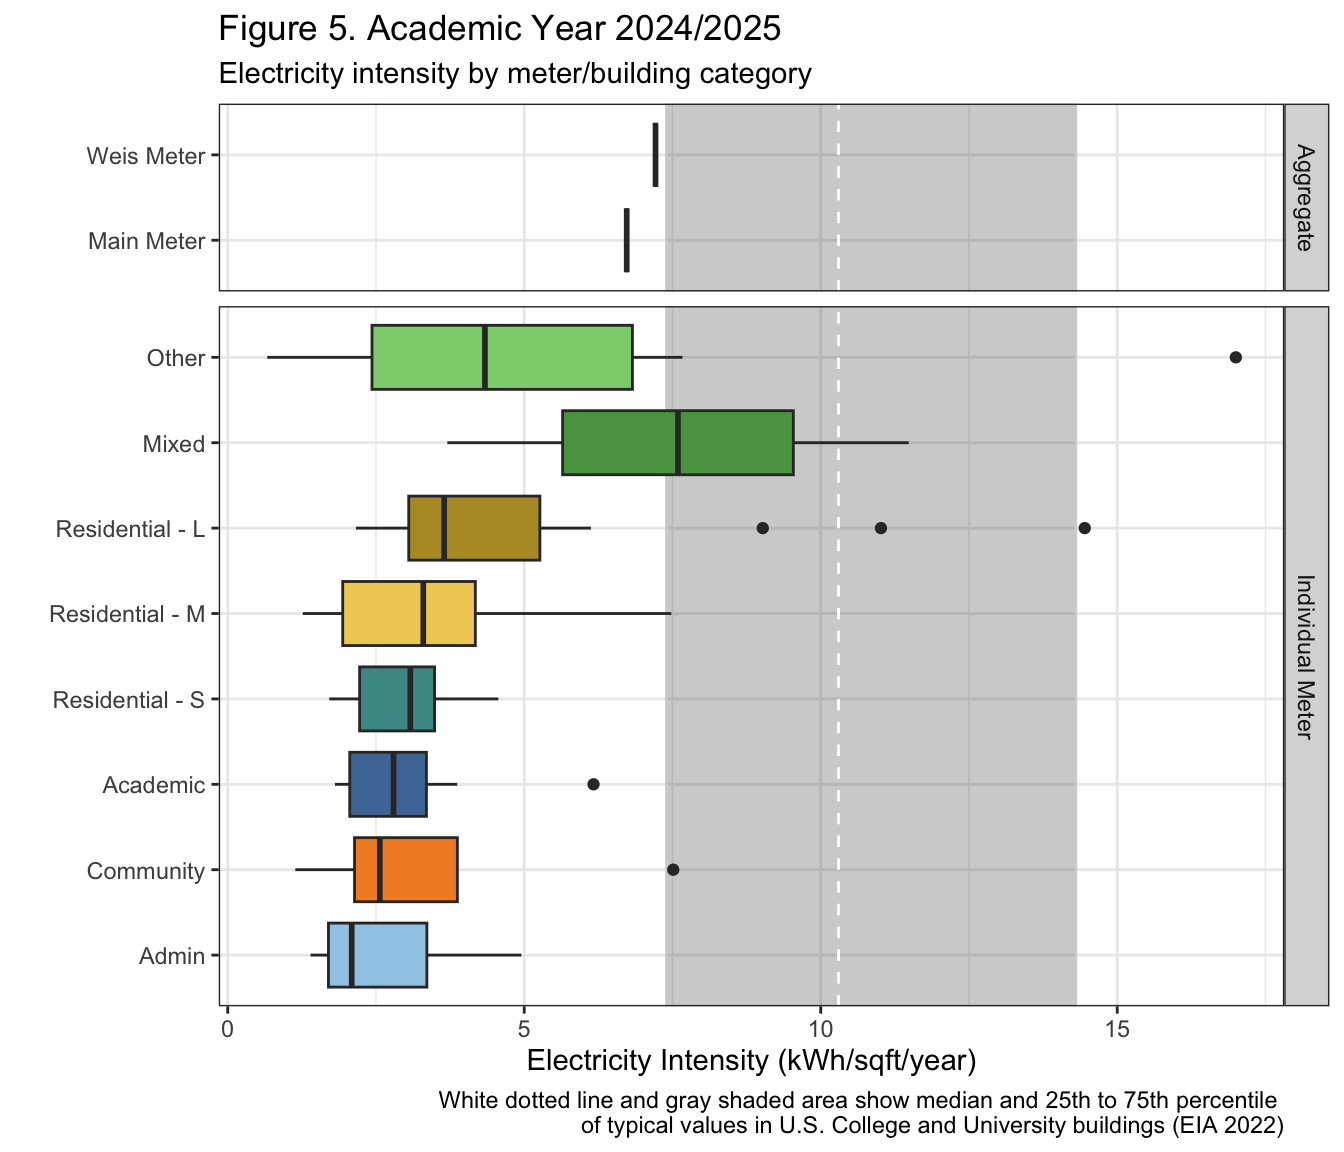
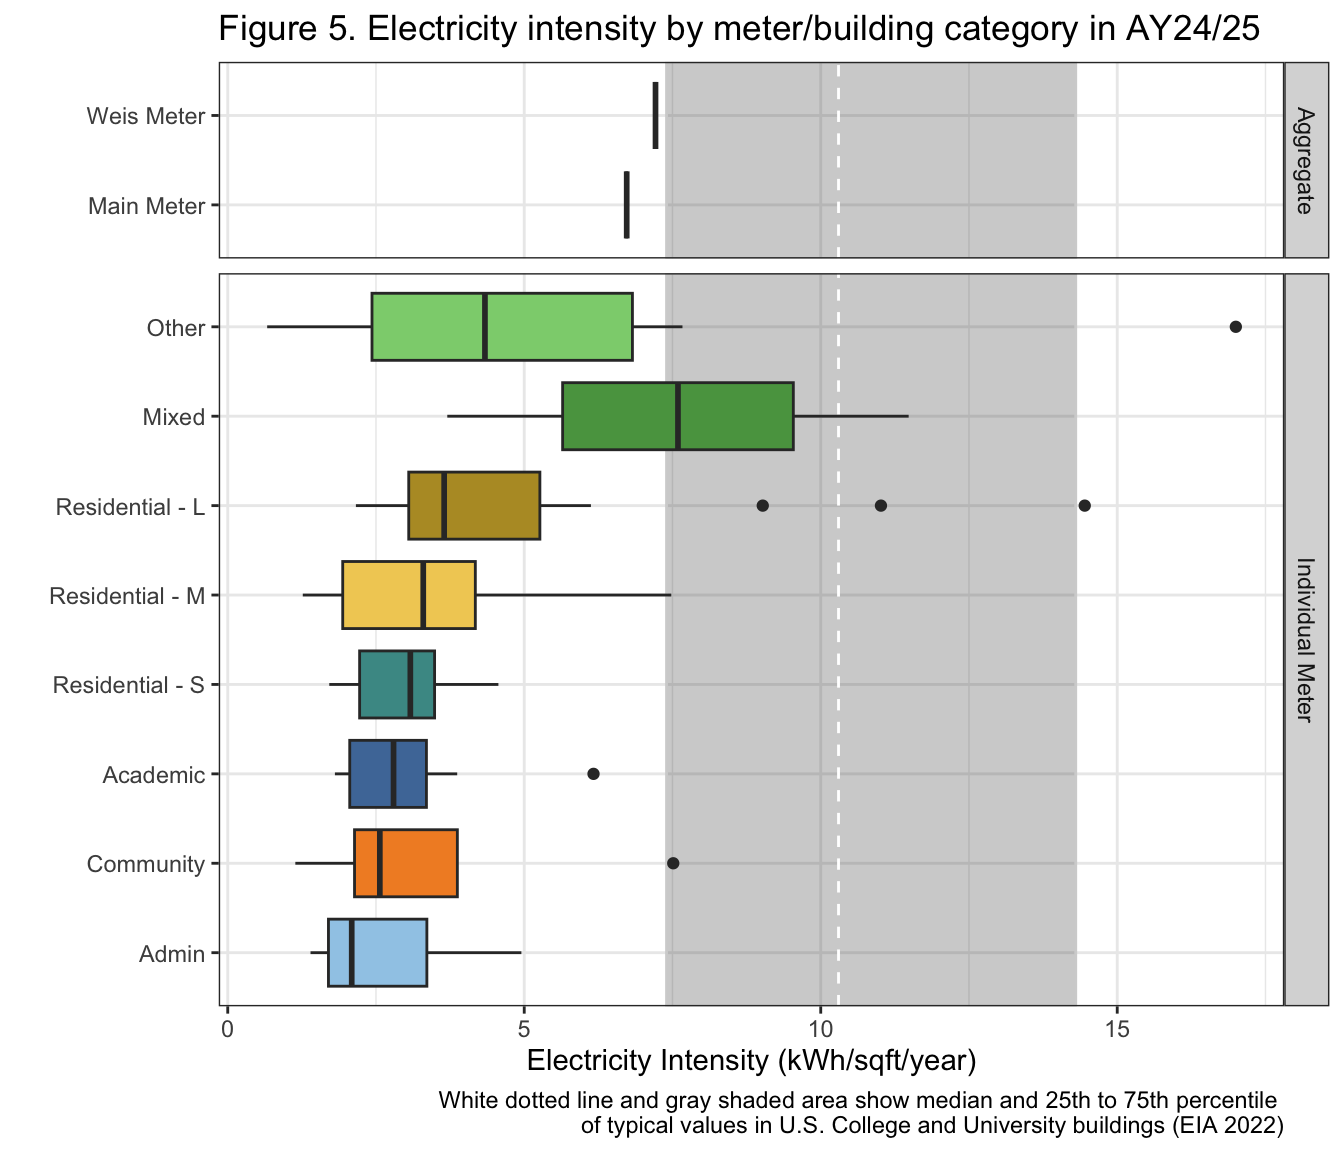
started to flesh out text for campus summary

diff --git a/docs/campus_summary.html b/docs/campus_summary.html
@@ -11,7 +11,7 @@
 
 <meta name="author" content="Maggie Douglas" />
 
-<meta name="date" content="2026-03-17" />
+<meta name="date" content="2026-03-18" />
 
 <title>Campus building summary</title>
 
@@ -404,7 +404,7 @@ div.tocify {
 
 <h1 class="title toc-ignore">Campus building summary</h1>
 <h4 class="author">Maggie Douglas</h4>
-<h4 class="date">03/17/26</h4>
+<h4 class="date">03/18/26</h4>
 
 </div>
 
@@ -504,8 +504,50 @@ joined_cat &lt;- joined_full %&gt;%
             kwh_sqft_75 = quantile(kwh_sqft, .75, na.rm = T)) %&gt;%
   arrange(-kwh)</code></pre>
 </div>
+<div id="background" class="section level2">
+<h2>Background</h2>
+<p>This analysis examines electricity use on Dickinson’s campus as a
+whole in fiscal year 2025, to provide context for the category-specific
+analyses that follow. Buildings on Dickinson’s campus vary in how they
+are metered for electricity usage. Some buildings (and even individual
+apartments within buildings) have their own electricity meters, while
+others share a combined meter. There are two combined (or aggregate)
+meters - the “main meter” (associated with buildings in the central part
+of campus) and “Weis meter” (associated with buildings in a block around
+Weis Arts Complex). Some buildings on the main meter additionally have a
+“submeter” to track their individual electricity use.</p>
+<p>The electricity data analyzed here were derived from a combination of
+daily electricity use reported by the college electricity provider
+(PP&amp;L), daily electricity use recorded on submeters, provided by the
+Center for Sustainability Education. Electricity use information was
+joined with information on building characteristics shared by facilities
+management. Once the data were joined, we summarized electricity use by
+building and calculated electricity use indicators including estimated
+financial cost, associated greenhouse gas emissions in metric tons of
+CO2-equivalents, and electricity use normalized by square footage and
+student occupancy (for residence halls only). Financial cost is a rough
+estimate based on per kWh supply and delivery charges in June 2025 for
+the main meter, a value that will underestimate cost for smaller
+buildings due to variable costs.</p>
+</div>
 <div id="electricity-use-summary" class="section level2">
 <h2>Electricity use summary</h2>
+<p>The analysis includes 134 distinct buildings, accounting for almost 2
+million square feet of building space (Table 1). The majority (59%) of
+square footage was accounted for by buildings connected to the main
+meter. We identified 44 distinct buildings on the main meter, a value
+that differs slightly from internal campus estimate of 37 buildings due
+to differences in how buildings are delineated in the two datasets
+(e.g. Rector Science Center and Tome are listed together in the
+electricity data but separately in the building data). Our final dataset
+also includes 81 individually metered buildings that together account
+for 36% of campus square footage.</p>
+<p>We estimate that Dickinson used roughly 17 million kWh of electricity
+in fiscal year 2025, corresponding to a cost of roughly $1.4 million and
+over 5000 MT CO2-equivalents (Table 1). Most (68%) of this use was
+associated with buildings on the main meter. Another 6% was associated
+for nine buildings on the Weis meter, and the remaining 26% was
+associated with individually metered buildings.</p>
 <pre class="r"><code>joined_pretty_tot &lt;- joined_tot %&gt;%
   mutate(kwh = round(kwh_corr, digits = 0),
          dollars = paste(&quot;$&quot;,round(dollars, digits = 0)),
@@ -549,6 +591,14 @@ joined_pretty_cat &lt;- joined_cat %&gt;%
 </div>
 <div id="electricity-use-over-the-year" class="section level2">
 <h2>Electricity use over the year</h2>
+<p>Electricity use peaked in July and was lowest in May and November
+(Figure 1). At all times of year, buildings on the main meter accounted
+for most of the electricity use, and the main meter buildings appeared
+to drive the seasonal pattern (Figure 2). Of the individually metered
+buildings, large residence halls accounted for the largest share of
+electricity use and peaked in winter (Figure 3). Interestingly,
+electricity production through the solar field peaked in July and was
+lowest in December and January (Figure 1).</p>
 <pre class="r"><code>daily_graph &lt;- daily_full %&gt;%
   mutate(date = as_date(date),
          month = month(date, label = TRUE),
@@ -567,8 +617,7 @@ ggplot(filter(daily_graph, meter != &quot;Submeter&quot;),
   #scale_fill_brewer(type = &quot;qual&quot;, palette = &quot;Paired&quot;) +
   theme_bw() +
   labs(x = &quot;&quot;, y = &quot;Electricity use (million kWh)&quot;, fill = &quot;&quot;,
-       title = &quot;Figure 1. Fiscal Year 2025&quot;,
-       subtitle = &quot;Monthly patterns in electricity use&quot;)</code></pre>
+       title = &quot;Figure 1. Monthly patterns in electricity use in FY25&quot;)</code></pre>
 <p><img src="figure/campus_summary.Rmd/stacked%20bar-1.png" alt="" width="672" style="display: block; margin: auto;" /></p>
 <p>
 <button type="button" class="btn btn-default btn-xs btn-workflowr btn-workflowr-fig" data-toggle="collapse" data-target="#fig-no-spaces-stacked-bar-1">
@@ -592,6 +641,17 @@ Date
 </tr>
 </thead>
 <tbody>
+<tr>
+<td>
+<a href="https://github.com/maggiedouglas/dickinson_power/blob/bd65297524933e7448377a79a4cd9915ca5c1aa4/docs/figure/campus_summary.Rmd/stacked bar-1.png" target="_blank">bd65297</a>
+</td>
+<td>
+maggiedouglas
+</td>
+<td>
+2026-03-17
+</td>
+</tr>
 <tr>
 <td>
 <a href="https://github.com/maggiedouglas/dickinson_power/blob/012f9a199bf668fdb338eabe99a4c6d63ade705d/docs/figure/campus_summary.Rmd/stacked bar-1.png" target="_blank">012f9a1</a>
@@ -638,10 +698,46 @@ maggiedouglas
   theme(legend.position = &quot;none&quot;) +
   theme(axis.text.x = element_text(angle = 90, vjust = 0.5, hjust = 1)) +
   labs(x = &quot;&quot;, y = &quot;Electricity use (1000 kWh)&quot;, fill = &quot;&quot;,
-       title = &quot;Figure 2. Fiscal Year 2025&quot;,
-       subtitle = &quot;Monthly patterns in electricity use for aggregate meters&quot;,
+       title = &quot;Figure 2. Monthly patterns in electricity use for aggregate meters in FY2025&quot;,
        )</code></pre>
 <p><img src="figure/campus_summary.Rmd/faceted_agg-1.png" alt="" width="672" style="display: block; margin: auto;" /></p>
+<p>
+<button type="button" class="btn btn-default btn-xs btn-workflowr btn-workflowr-fig" data-toggle="collapse" data-target="#fig-faceted_agg-1">
+Past versions of faceted_agg-1.png
+</button>
+</p>
+<div id="fig-faceted_agg-1" class="collapse">
+<div class="table-responsive">
+<table class="table table-condensed table-hover">
+<thead>
+<tr>
+<th>
+Version
+</th>
+<th>
+Author
+</th>
+<th>
+Date
+</th>
+</tr>
+</thead>
+<tbody>
+<tr>
+<td>
+<a href="https://github.com/maggiedouglas/dickinson_power/blob/bd65297524933e7448377a79a4cd9915ca5c1aa4/docs/figure/campus_summary.Rmd/faceted_agg-1.png" target="_blank">bd65297</a>
+</td>
+<td>
+maggiedouglas
+</td>
+<td>
+2026-03-17
+</td>
+</tr>
+</tbody>
+</table>
+</div>
+</div>
 <pre class="r"><code>ggplot(filter(daily_graph, meter == &quot;Individual&quot; &amp; type != &quot;Solar&quot;),
        aes(x = month, y = kwh/10^3, fill = type_brief)) +
   geom_col(position = &quot;stack&quot;) +
@@ -651,8 +747,7 @@ maggiedouglas
   theme(legend.position = &quot;none&quot;) +
   theme(axis.text.x = element_text(angle = 90, vjust = 0.5, hjust = 1)) +
   labs(x = &quot;&quot;, y = &quot;Electricity use (1000 kWh)&quot;, fill = &quot;&quot;,
-       title = &quot;Figure 3. Fiscal Year 2025&quot;,
-       subtitle = &quot;Monthly patterns in electricity use by category for buildings with individual meters&quot;,
+       title = &quot;Figure 3. Monthly patterns in electricity use by category in FY2025&quot;,
        caption = &quot;Note: Data only includes buildings with individual meters. Most electricity use is accounted for on the Main Meter.&quot;)</code></pre>
 <p><img src="figure/campus_summary.Rmd/faceted-1.png" alt="" width="768" style="display: block; margin: auto;" /></p>
 <p>
@@ -679,6 +774,17 @@ Date
 <tbody>
 <tr>
 <td>
+<a href="https://github.com/maggiedouglas/dickinson_power/blob/bd65297524933e7448377a79a4cd9915ca5c1aa4/docs/figure/campus_summary.Rmd/faceted-1.png" target="_blank">bd65297</a>
+</td>
+<td>
+maggiedouglas
+</td>
+<td>
+2026-03-17
+</td>
+</tr>
+<tr>
+<td>
 <a href="https://github.com/maggiedouglas/dickinson_power/blob/012f9a199bf668fdb338eabe99a4c6d63ade705d/docs/figure/campus_summary.Rmd/faceted-1.png" target="_blank">012f9a1</a>
 </td>
 <td>
@@ -695,6 +801,25 @@ maggiedouglas
 </div>
 <div id="electricity-intensity" class="section level2">
 <h2>Electricity intensity</h2>
+<p>Looking at the entire fiscal year, electricity intensity (use per
+square foot of space) varied across building categories for individually
+metered buildings (Table 2, Figure 4). Administrative buildings had the
+lowest electricity intensity with a median of 3.2 kWh/sqft
+(interquartile range 2.6-5.3 kWh/sqft), while the ‘Mixed’ category of
+buildings had the highest value at 15.6 kWh/sqft (interquartile range
+10.7-20.6 kWh/sqft). Importantly, the ‘Mixed’ category includes Kaufman
+Hall, which houses the campus central energy plant and supplies heat and
+cooling to other buildings on campus. That said, electricity intensity
+for most individually metered buildings as substantially below typical
+values for U.S. Colleges and Universities as reported by the U.S. Energy
+Information Administration (EIA 2022).</p>
+<p>Interestingly, the two aggregate meters that account for most
+electricity use on campus had a slightly higher electricity intensity
+than most individually metered buildings, at 11.4 kWh/sqft for buildings
+on the Weis meter and 10.4 kWh/sqft for buildings on the main meter
+(Table 1, Figure 4). These values are very close to the median value of
+10.3 kWh/sqft (interquartile range 7.4-14.3 kWh/sqft) reported for U.S.
+Colelges and Universities (EIA 2022).</p>
 <pre class="r"><code>intensity &lt;- joined_full %&gt;%
   filter(!(type %in% c(&quot;Residential - U&quot;,&quot;Solar&quot;, &quot;Non-building&quot;))) %&gt;%
   mutate(kwh_sqft = kwh_corr/sqft,
@@ -725,8 +850,7 @@ ggplot(intensity,
   theme_bw() +
   theme(legend.position = &quot;none&quot;) +
   labs(x = &quot;&quot;, y = &quot;Electricity Intensity (kWh/sqft/year)&quot;, 
-       title = &quot;Figure 4. Fiscal Year 2025&quot;,
-       subtitle = &quot;Electricity intensity by meter/building category&quot;,
+       title = &quot;Figure 4. Electricity intensity by meter/building category in FY25&quot;,
        caption = &quot;White dotted line and gray shaded area show median and 25th to 75th percentile \nof typical values in U.S. College and University buildings (EIA 2022)&quot;)</code></pre>
 <p><img src="figure/campus_summary.Rmd/intensity-1.png" alt="" width="672" style="display: block; margin: auto;" /></p>
 <p>
@@ -751,6 +875,17 @@ Date
 </tr>
 </thead>
 <tbody>
+<tr>
+<td>
+<a href="https://github.com/maggiedouglas/dickinson_power/blob/bd65297524933e7448377a79a4cd9915ca5c1aa4/docs/figure/campus_summary.Rmd/intensity-1.png" target="_blank">bd65297</a>
+</td>
+<td>
+maggiedouglas
+</td>
+<td>
+2026-03-17
+</td>
+</tr>
 <tr>
 <td>
 <a href="https://github.com/maggiedouglas/dickinson_power/blob/012f9a199bf668fdb338eabe99a4c6d63ade705d/docs/figure/campus_summary.Rmd/intensity-1.png" target="_blank">012f9a1</a>
@@ -816,8 +951,7 @@ ggplot(intensity_acad,
   theme_bw() +
   theme(legend.position = &quot;none&quot;) +
   labs(x = &quot;&quot;, y = &quot;Electricity Intensity (kWh/sqft/year)&quot;, 
-       title = &quot;Figure 5. Academic Year 2024/2025&quot;,
-       subtitle = &quot;Electricity intensity by meter/building category&quot;, 
+       title = &quot;Figure 5. Electricity intensity by meter/building category in AY24/25&quot;, 
        caption = &quot;White dotted line and gray shaded area show median and 25th to 75th percentile \nof typical values in U.S. College and University buildings (EIA 2022)&quot;)</code></pre>
 <p><img src="figure/campus_summary.Rmd/intensity_acad-1.png" alt="" width="672" style="display: block; margin: auto;" /></p>
 <p>
@@ -842,6 +976,17 @@ Date
 </tr>
 </thead>
 <tbody>
+<tr>
+<td>
+<a href="https://github.com/maggiedouglas/dickinson_power/blob/bd65297524933e7448377a79a4cd9915ca5c1aa4/docs/figure/campus_summary.Rmd/intensity_acad-1.png" target="_blank">bd65297</a>
+</td>
+<td>
+maggiedouglas
+</td>
+<td>
+2026-03-17
+</td>
+</tr>
 <tr>
 <td>
 <a href="https://github.com/maggiedouglas/dickinson_power/blob/012f9a199bf668fdb338eabe99a4c6d63ade705d/docs/figure/campus_summary.Rmd/intensity_acad-1.png" target="_blank">012f9a1</a>
